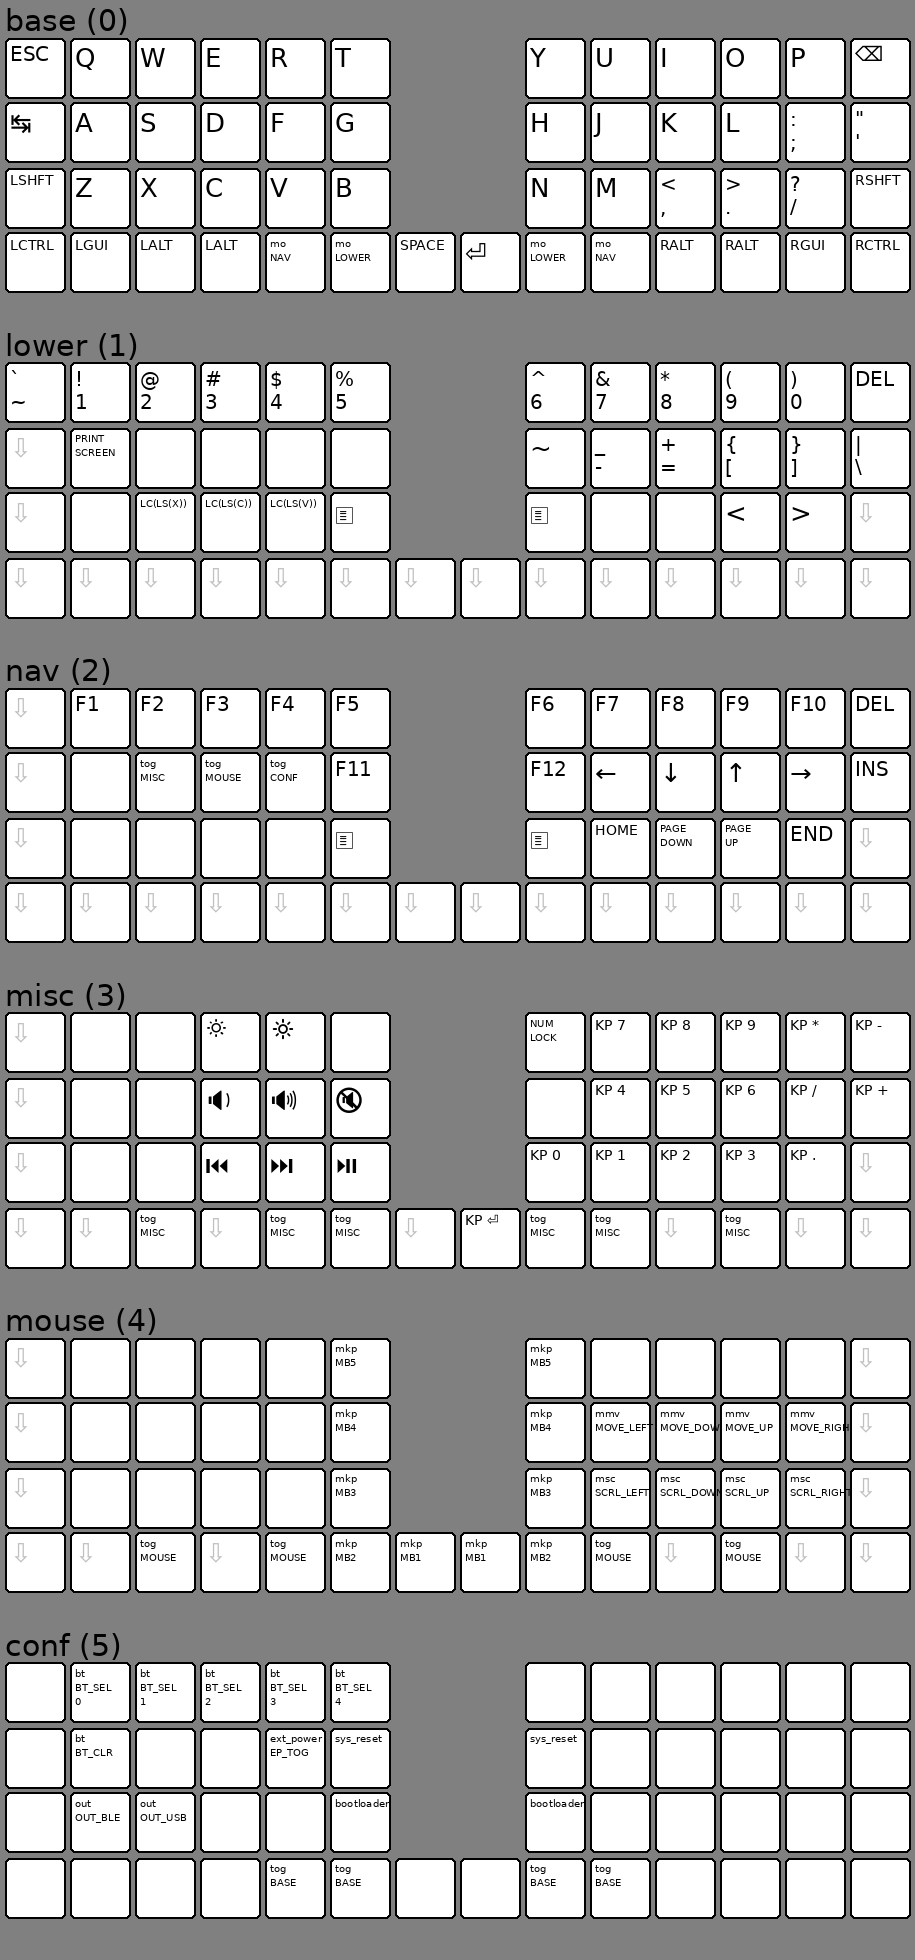
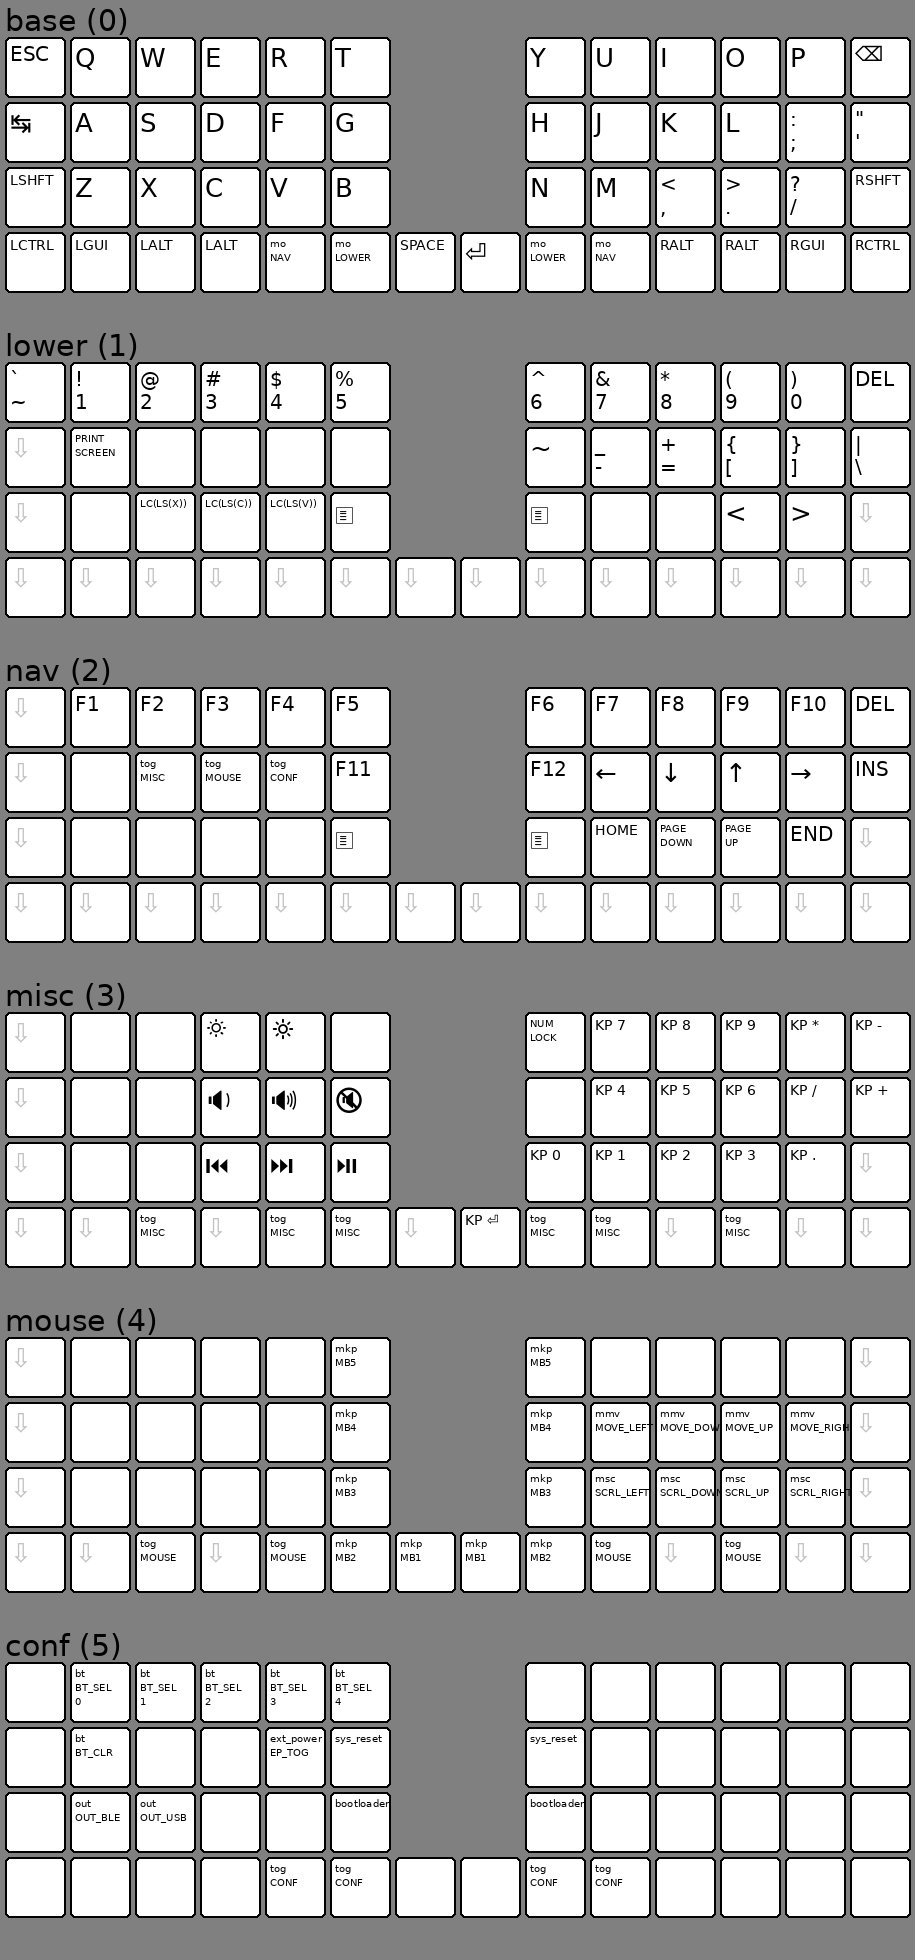
Fix CONF layer not deactivating

Changed region(s): [[0.5814, 0.9337, 0.612, 0.9648], [0.3672, 0.9337, 0.3978, 0.9648]]

diff --git a/build.py b/build.py
@@ -78,13 +78,13 @@ layout = {
         | &none | &bt BT_SEL 0 | &bt BT_SEL 1 | &bt BT_SEL 2 | &bt BT_SEL 3      | &bt BT_SEL 4 |       |
         | &none | &bt BT_CLR   | &none        | &none        | &ext_power EP_TOG | &sys_reset   |       |
         | &none | &out OUT_BLE | &out OUT_USB | &none        | &none             | &bootloader  |       |
-        | &none | &none        | &none        | &none        | &tog BASE         | &tog BASE    | &none |
+        | &none | &none        | &none        | &none        | &tog CONF         | &tog CONF    | &none |
         """,
         """
         |       | &none       | &none     | &none | &none | &none | &none |
         |       | &sys_reset  | &none     | &none | &none | &none | &none |
         |       | &bootloader | &none     | &none | &none | &none | &none |
-        | &none | &tog BASE   | &tog BASE | &none | &none | &none | &none |
+        | &none | &tog CONF   | &tog CONF | &none | &none | &none | &none |
         """,
     ],
 }
